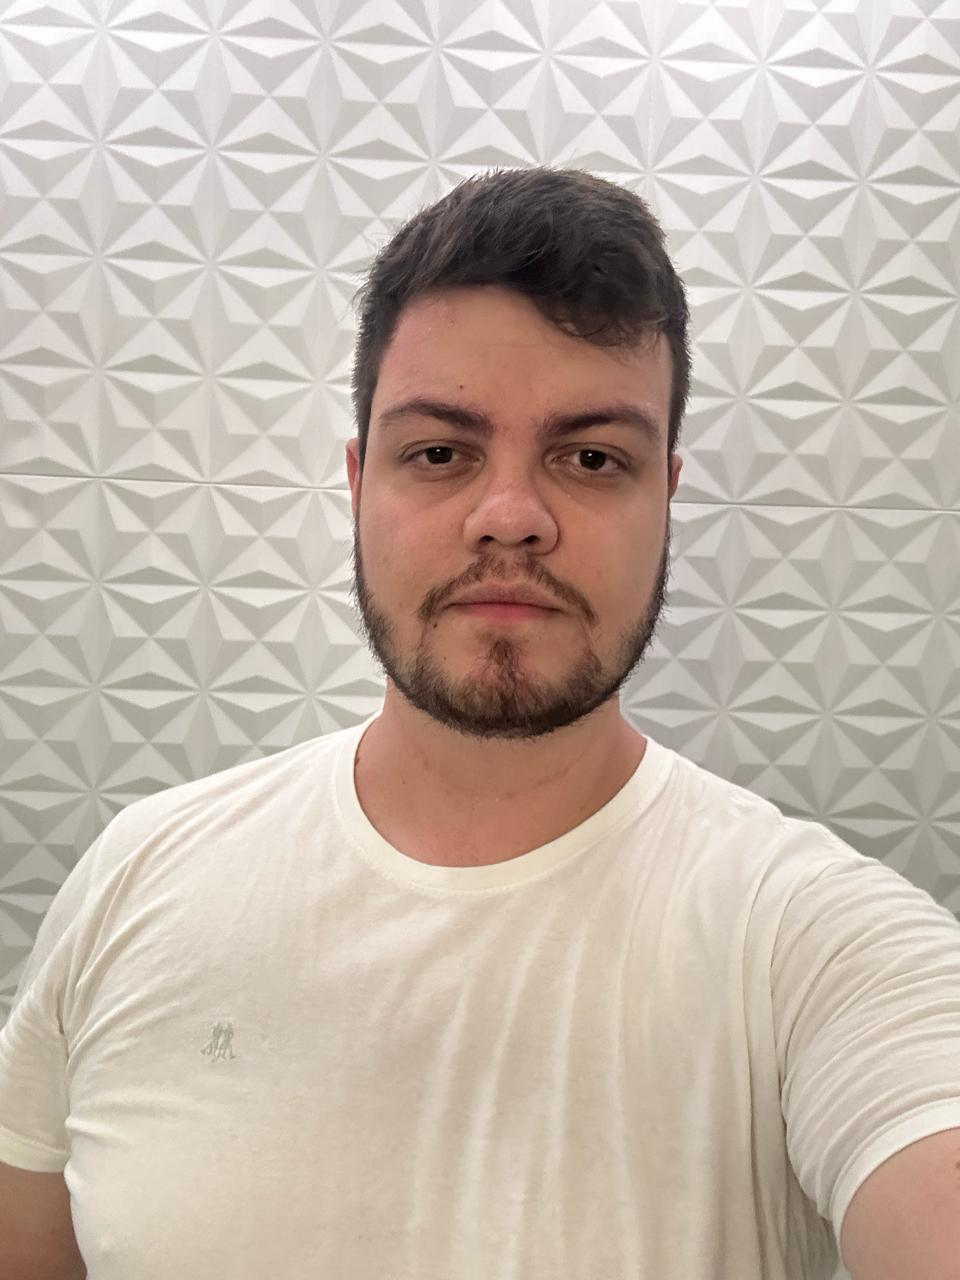
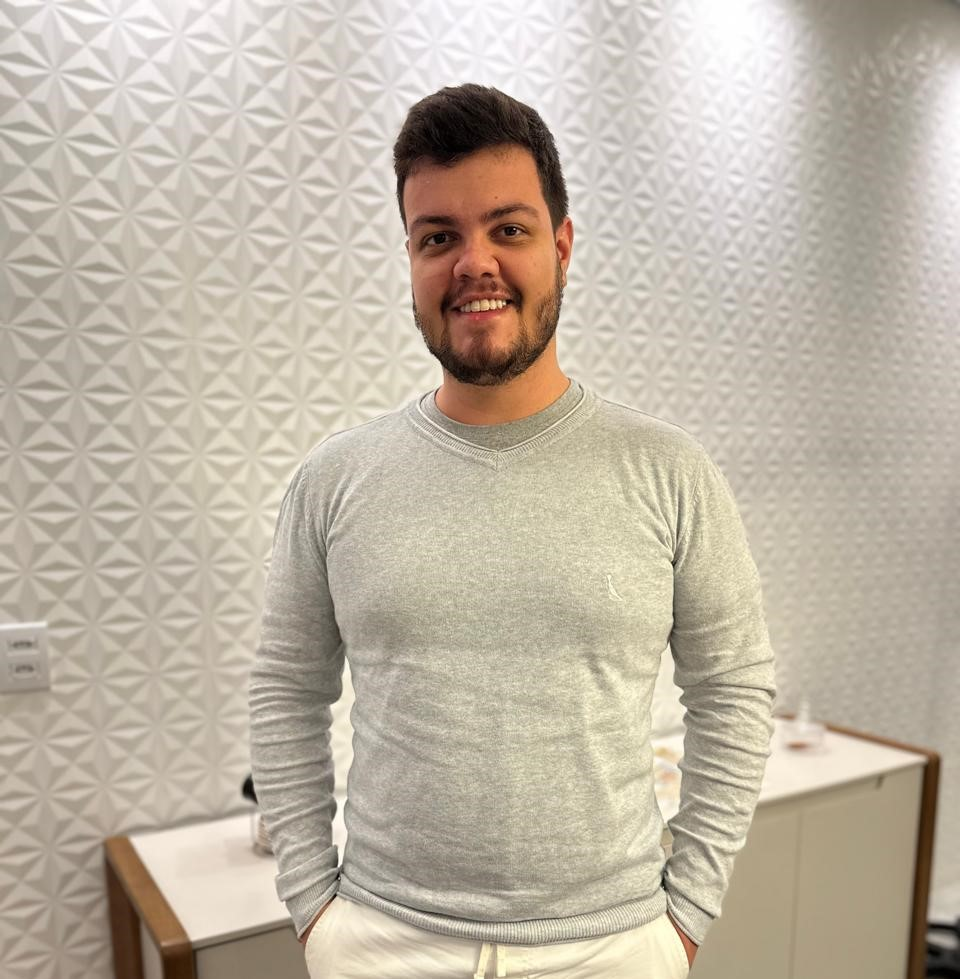
feat(profile): update profile picture and job title

diff --git a/index.html b/index.html
@@ -31,7 +31,7 @@
           alt="Christian Leonardo Chiavelli" />
         <br />
         <h1 class="name">Christian Chiavelli</h1>
-        <h3 class="tagline">Full Stack Developer</h3>
+        <h3 class="tagline">Software Engineer</h3>
       </div>
 
       <div class="text-center" style="padding-top: 25px">
